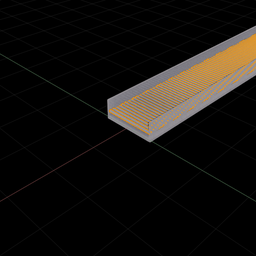
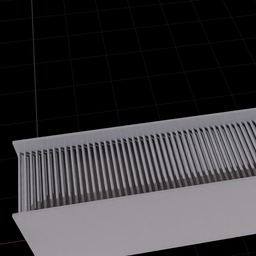
did not use BaseBox anymore

diff --git a/App/CreateFCEnv_v3.py b/App/CreateFCEnv_v3.py
@@ -72,7 +72,7 @@ FC_CFG = ArticulationCfg(
         usd_path="C:/Users/bactran/Documents/IsaacLab/IsaacLab/source/isaaclab_tasks/isaaclab_tasks/manager_based/classic/FCRobot/Custom40ftStraight_v3.usd",
         rigid_props=sim_utils.RigidBodyPropertiesCfg(
             rigid_body_enabled=True,
-            max_linear_velocity=1000.0,
+            max_linear_velocity=0.0,
             max_angular_velocity=1326.0,
             max_depenetration_velocity=100.0,
             enable_gyroscopic_forces=False,
@@ -86,70 +86,70 @@ FC_CFG = ArticulationCfg(
         ),
     ),
     init_state=ArticulationCfg.InitialStateCfg(
-        pos=(0.0, 0.0, 0.0),
+        pos=(0.0, 0.0, 0),
         joint_pos={"Roller_1_.*": 0.0, "Roller_17_.*": 0.0, "Roller_33_.*": 0.0, "Roller_49_.*": 0.0, 
                    "Roller_65_.*": 0.0, "Roller_81_.*": 0.0, "Roller_97_.*": 0.0, "Roller_113_.*": 0.0}
     ),
     actuators={
         "joint_1_actuator": ImplicitActuatorCfg(
-            joint_names_expr=["Roller_1_1_joint"],
-            effort_limit=70000.0,
+            joint_names_expr=["Roller_1_.*"],
+            effort_limit=7000000.0,
             velocity_limit=1326.0,
             velocity_limit_sim=1326.0,
             stiffness=0.0,
             damping=5.0
         ),
         "joint_17_actuator": ImplicitActuatorCfg(
-            joint_names_expr=["Roller_17_17_joint"],
-            effort_limit=70000.0,
+            joint_names_expr=["Roller_17_.*"],
+            effort_limit=7000000.0,
             velocity_limit=1326.0,
             velocity_limit_sim=1326.0,
             stiffness=0.0,
             damping=5.0
         ),
         "joint_33_actuator": ImplicitActuatorCfg(
-            joint_names_expr=["Roller_33_33_joint"],
-            effort_limit=70000.0,
+            joint_names_expr=["Roller_33_.*"],
+            effort_limit=7000000.0,
             velocity_limit=1326.0,
             velocity_limit_sim=1326.0,
             stiffness=0.0,
             damping=5.0
         ),
         "joint_49_actuator": ImplicitActuatorCfg(
-            joint_names_expr=["Roller_49_49_joint"],
-            effort_limit=70000.0,
+            joint_names_expr=["Roller_49_.*"],
+            effort_limit=7000000.0,
             velocity_limit=1326.0,
             velocity_limit_sim=1326.0,
             stiffness=0.0,
             damping=5.0
         ),
         "joint_65_actuator": ImplicitActuatorCfg(
-            joint_names_expr=["Roller_65_65_joint"],
-            effort_limit=70000.0,
+            joint_names_expr=["Roller_65_.*"],
+            effort_limit=7000000.0,
             velocity_limit=1326.0,
             velocity_limit_sim=1326.0,
             stiffness=0.0,
             damping=5.0
         ),
         "joint_81_actuator": ImplicitActuatorCfg(
-            joint_names_expr=["Roller_81_81_joint"],
-            effort_limit=70000.0,
+            joint_names_expr=["Roller_81_.*"],
+            effort_limit=7000000.0,
             velocity_limit=1326.0,
             velocity_limit_sim=1326.0,
             stiffness=0.0,
             damping=5.0
         ),
         "joint_97_actuator": ImplicitActuatorCfg(
-            joint_names_expr=["Roller_97_97_joint"],
-            effort_limit=70000.0,
+            joint_names_expr=["Roller_97_.*"],
+            effort_limit=7000000.0,
             velocity_limit=1326.0,
             velocity_limit_sim=1326.0,
             stiffness=0.0,
             damping=5.0
         ),
         "joint_113_actuator": ImplicitActuatorCfg(
-            joint_names_expr=["Roller_113_113_joint"],
-            effort_limit=70000.0,
+            joint_names_expr=["Roller_113_.*"],
+            effort_limit=7000000.0,
             velocity_limit=1326.0,
             velocity_limit_sim=1326.0,
             stiffness=0.0,
@@ -224,7 +224,7 @@ class FlowControlSceneCfg(InteractiveSceneCfg):
             mass_props=sim_utils.MassPropertiesCfg(mass=2.0),
             collision_props=sim_utils.CollisionPropertiesCfg(),
         ),
-        init_state=RigidObjectCfg.InitialStateCfg(pos=(-0.5, 0.0, 2.0),ang_vel=(uniform(10,15), uniform(10,15), uniform(10,15)))
+        init_state=RigidObjectCfg.InitialStateCfg(pos=(-0.5, 0.0, 3.0),ang_vel=(uniform(10,15), uniform(10,15), uniform(10,15)))
     )
     
     BoxS2: RigidObjectCfg = RigidObjectCfg(
@@ -254,7 +254,7 @@ class FlowControlSceneCfg(InteractiveSceneCfg):
             mass_props=sim_utils.MassPropertiesCfg(mass=2.0),
             collision_props=sim_utils.CollisionPropertiesCfg(),
         ),
-        init_state=RigidObjectCfg.InitialStateCfg(pos=(uniform(-5, -0.5), uniform(-0.5,0.5), 2.0),ang_vel=(uniform(10,15), uniform(10,15), uniform(10,15)))
+        init_state=RigidObjectCfg.InitialStateCfg(pos=(uniform(-5, -0.5), uniform(-0.5,0.5), 3.0),ang_vel=(uniform(10,15), uniform(10,15), uniform(10,15)))
     )
     
     BoxS3: RigidObjectCfg = RigidObjectCfg(
@@ -284,7 +284,7 @@ class FlowControlSceneCfg(InteractiveSceneCfg):
             mass_props=sim_utils.MassPropertiesCfg(mass=2.0),
             collision_props=sim_utils.CollisionPropertiesCfg(),
         ),
-        init_state=RigidObjectCfg.InitialStateCfg(pos=(uniform(-5, -0.5), uniform(-0.5,0.5), 2.0),ang_vel=(uniform(10,15), uniform(10,15), uniform(10,15)))
+        init_state=RigidObjectCfg.InitialStateCfg(pos=(uniform(-5, -0.5), uniform(-0.5,0.5), 3.0),ang_vel=(uniform(10,15), uniform(10,15), uniform(10,15)))
     )
     
     BoxS4: RigidObjectCfg = RigidObjectCfg(
@@ -314,7 +314,7 @@ class FlowControlSceneCfg(InteractiveSceneCfg):
             mass_props=sim_utils.MassPropertiesCfg(mass=2.0),
             collision_props=sim_utils.CollisionPropertiesCfg(),
         ),
-        init_state=RigidObjectCfg.InitialStateCfg(pos=(uniform(-5, -0.5), uniform(-0.5,0.5), 2.0),ang_vel=(uniform(10,15), uniform(10,15), uniform(10,15)))
+        init_state=RigidObjectCfg.InitialStateCfg(pos=(uniform(-5, -0.5), uniform(-0.5,0.5), 3.0),ang_vel=(uniform(10,15), uniform(10,15), uniform(10,15)))
     )
     
     BoxS5: RigidObjectCfg = RigidObjectCfg(
@@ -344,7 +344,7 @@ class FlowControlSceneCfg(InteractiveSceneCfg):
             mass_props=sim_utils.MassPropertiesCfg(mass=2.0),
             collision_props=sim_utils.CollisionPropertiesCfg(),
         ),
-        init_state=RigidObjectCfg.InitialStateCfg(pos=(uniform(-6, -5), uniform(-0.5,0.5), 2.0),ang_vel=(uniform(10,15), uniform(10,15), uniform(10,15)))
+        init_state=RigidObjectCfg.InitialStateCfg(pos=(uniform(-6, -5), uniform(-0.5,0.5), 3.0),ang_vel=(uniform(10,15), uniform(10,15), uniform(10,15)))
     )
     
     BoxS6: RigidObjectCfg = RigidObjectCfg(
@@ -374,7 +374,7 @@ class FlowControlSceneCfg(InteractiveSceneCfg):
             mass_props=sim_utils.MassPropertiesCfg(mass=2.0),
             collision_props=sim_utils.CollisionPropertiesCfg(),
         ),
-        init_state=RigidObjectCfg.InitialStateCfg(pos=(uniform(-6, -5), uniform(-0.5,0.5), 2.0),ang_vel=(uniform(10,15), uniform(10,15), uniform(10,15)))
+        init_state=RigidObjectCfg.InitialStateCfg(pos=(uniform(-6, -5), uniform(-0.5,0.5), 3.0),ang_vel=(uniform(10,15), uniform(10,15), uniform(10,15)))
     )
     
     BoxS7: RigidObjectCfg = RigidObjectCfg(
@@ -404,7 +404,7 @@ class FlowControlSceneCfg(InteractiveSceneCfg):
             mass_props=sim_utils.MassPropertiesCfg(mass=2.0),
             collision_props=sim_utils.CollisionPropertiesCfg(),
         ),
-        init_state=RigidObjectCfg.InitialStateCfg(pos=(uniform(-6, -5), uniform(-0.5,0.5), 2.0),ang_vel=(uniform(10,15), uniform(10,15), uniform(10,15)))
+        init_state=RigidObjectCfg.InitialStateCfg(pos=(uniform(-6, -5), uniform(-0.5,0.5), 3.0),ang_vel=(uniform(10,15), uniform(10,15), uniform(10,15)))
     )
     
         
@@ -414,7 +414,7 @@ class FlowControlSceneCfg(InteractiveSceneCfg):
     # Cameras
     tiled_camera1: CameraCfg = TiledCameraCfg(
         prim_path="{ENV_REGEX_NS}/Camera1",
-        offset=TiledCameraCfg.OffsetCfg(pos=(-0.76, 0.0, 3.4), rot=(0.0, 0.0, 0.0, 0.0), convention="opengl"),
+        offset=TiledCameraCfg.OffsetCfg(pos=(-0.76, 0.0, 10), rot=(0.0, 0.0, 0.0, 0.0), convention="opengl"),
         data_types=["distance_to_image_plane"],
         update_period=0.05,
         spawn=sim_utils.PinholeCameraCfg(
@@ -426,7 +426,7 @@ class FlowControlSceneCfg(InteractiveSceneCfg):
     
     tiled_camera2: TiledCameraCfg = TiledCameraCfg(
         prim_path="{ENV_REGEX_NS}/Camera2",
-        offset=TiledCameraCfg.OffsetCfg(pos=(-0.76-1.52*1, 0.0, 3.4), rot=(0.0, 0.0, 0.0, 0.0), convention="opengl"),
+        offset=TiledCameraCfg.OffsetCfg(pos=(-0.76-1.52*1, 0.0, 10), rot=(0.0, 0.0, 0.0, 0.0), convention="opengl"),
         data_types=["distance_to_image_plane"],
         update_period=0.05,
         spawn=sim_utils.PinholeCameraCfg(
@@ -437,7 +437,7 @@ class FlowControlSceneCfg(InteractiveSceneCfg):
     )
     tiled_camera3: TiledCameraCfg = TiledCameraCfg(
         prim_path="{ENV_REGEX_NS}/Camera3",
-        offset=TiledCameraCfg.OffsetCfg(pos=(-0.76-1.52*2, 0.0, 3.4), rot=(0.0, 0.0, 0.0, 0.0), convention="opengl"),
+        offset=TiledCameraCfg.OffsetCfg(pos=(-0.76-1.52*2, 0.0, 10), rot=(0.0, 0.0, 0.0, 0.0), convention="opengl"),
         data_types=["distance_to_image_plane"],
         update_period=0.05,
         spawn=sim_utils.PinholeCameraCfg(
@@ -448,7 +448,7 @@ class FlowControlSceneCfg(InteractiveSceneCfg):
     )
     tiled_camera4: TiledCameraCfg = TiledCameraCfg(
         prim_path="{ENV_REGEX_NS}/Camera4",
-        offset=TiledCameraCfg.OffsetCfg(pos=(-0.76-1.52*3, 0.0, 3.4), rot=(0.0, 0.0, 0.0, 0.0), convention="opengl"),
+        offset=TiledCameraCfg.OffsetCfg(pos=(-0.76-1.52*3, 0.0, 10), rot=(0.0, 0.0, 0.0, 0.0), convention="opengl"),
         data_types=["distance_to_image_plane"],
         update_period=0.05,
         spawn=sim_utils.PinholeCameraCfg(
@@ -459,7 +459,7 @@ class FlowControlSceneCfg(InteractiveSceneCfg):
     )
     tiled_camera5: TiledCameraCfg = TiledCameraCfg(
         prim_path="{ENV_REGEX_NS}/Camera5",
-        offset=TiledCameraCfg.OffsetCfg(pos=(-0.76-1.52*4, 0.0, 3.4), rot=(0.0, 0.0, 0.0, 0.0), convention="opengl"),
+        offset=TiledCameraCfg.OffsetCfg(pos=(-0.76-1.52*4, 0.0, 10), rot=(0.0, 0.0, 0.0, 0.0), convention="opengl"),
         data_types=["distance_to_image_plane"],
         update_period=0.05,
         spawn=sim_utils.PinholeCameraCfg(
@@ -470,7 +470,7 @@ class FlowControlSceneCfg(InteractiveSceneCfg):
     )
     tiled_camera6: TiledCameraCfg = TiledCameraCfg(
         prim_path="{ENV_REGEX_NS}/Camera6",
-        offset=TiledCameraCfg.OffsetCfg(pos=(-0.76-1.52*5, 0.0, 3.4), rot=(0.0, 0.0, 0.0, 0.0), convention="opengl"),
+        offset=TiledCameraCfg.OffsetCfg(pos=(-0.76-1.52*5, 0.0, 10), rot=(0.0, 0.0, 0.0, 0.0), convention="opengl"),
         data_types=["distance_to_image_plane"],
         update_period=0.05,
         spawn=sim_utils.PinholeCameraCfg(
@@ -481,7 +481,7 @@ class FlowControlSceneCfg(InteractiveSceneCfg):
     )
     tiled_camera7: TiledCameraCfg = TiledCameraCfg(
         prim_path="{ENV_REGEX_NS}/Camera7",
-        offset=TiledCameraCfg.OffsetCfg(pos=(-0.76-1.52*6, 0.0, 3.4), rot=(0.0, 0.0, 0.0, 0.0), convention="opengl"),
+        offset=TiledCameraCfg.OffsetCfg(pos=(-0.76-1.52*6, 0.0, 10), rot=(0.0, 0.0, 0.0, 0.0), convention="opengl"),
         data_types=["distance_to_image_plane"],
         update_period=0.05,
         spawn=sim_utils.PinholeCameraCfg(
@@ -492,7 +492,7 @@ class FlowControlSceneCfg(InteractiveSceneCfg):
     )
     tiled_camera8: TiledCameraCfg = TiledCameraCfg(
         prim_path="{ENV_REGEX_NS}/Camera8",
-        offset=TiledCameraCfg.OffsetCfg(pos=(-0.76-1.52*7, 0.0, 3.4), rot=(0.0, 0.0, 0.0, 0.0), convention="opengl"),
+        offset=TiledCameraCfg.OffsetCfg(pos=(-0.76-1.52*7, 0.0, 10), rot=(0.0, 0.0, 0.0, 0.0), convention="opengl"),
         data_types=["distance_to_image_plane"],
         update_period=0.05,
         spawn=sim_utils.PinholeCameraCfg(
@@ -520,17 +520,14 @@ class FlowControlSceneCfg(InteractiveSceneCfg):
 class ActionsCfg:
     """Action specifications for the environment."""
 
-    #joint_velocities1 = mdp.JointVelocityActionCfg(asset_name="robot", joint_names=["Roller_1_.*", "Roller_17_.*", "Roller_33_.*", "Roller_49_.*", 
-    #                                                                              "Roller_65_.*", "Roller_81_.*", "Roller_97_.*", "Roller_113_.*"], scale=1.0)
-    
-    joint_velocities1 = mdp.JointVelocityActionCfg(asset_name="robot", joint_names=["Roller_1_1_joint"], scale=1.0)
-    joint_velocities2 = mdp.JointVelocityActionCfg(asset_name="robot", joint_names=["Roller_33_33_joint"], scale=1.0)
-    joint_velocities3 = mdp.JointVelocityActionCfg(asset_name="robot", joint_names=["Roller_65_65_joint"], scale=1.0)
-    joint_velocities4 = mdp.JointVelocityActionCfg(asset_name="robot", joint_names=["Roller_97_97_joint"], scale=1.0)
-    joint_velocities5 = mdp.JointVelocityActionCfg(asset_name="robot", joint_names=["Roller_17_17_joint"], scale=1.0)
-    joint_velocities6 = mdp.JointVelocityActionCfg(asset_name="robot", joint_names=["Roller_49_49_joint"], scale=1.0)
-    joint_velocities7 = mdp.JointVelocityActionCfg(asset_name="robot", joint_names=["Roller_81_81_joint"], scale=1.0)
-    joint_velocities8 = mdp.JointVelocityActionCfg(asset_name="robot", joint_names=["Roller_113_113_joint"], scale=1.0)
+    joint_velocities1 = mdp.JointVelocityActionCfg(asset_name="robot", joint_names=["Roller_1_.*"], scale=1.0)
+    joint_velocities2 = mdp.JointVelocityActionCfg(asset_name="robot", joint_names=["Roller_33_.*"], scale=1.0)
+    joint_velocities3 = mdp.JointVelocityActionCfg(asset_name="robot", joint_names=["Roller_65_.*"], scale=1.0)
+    joint_velocities4 = mdp.JointVelocityActionCfg(asset_name="robot", joint_names=["Roller_97_.*"], scale=1.0)
+    joint_velocities5 = mdp.JointVelocityActionCfg(asset_name="robot", joint_names=["Roller_17_.*"], scale=1.0)
+    joint_velocities6 = mdp.JointVelocityActionCfg(asset_name="robot", joint_names=["Roller_49_.*"], scale=1.0)
+    joint_velocities7 = mdp.JointVelocityActionCfg(asset_name="robot", joint_names=["Roller_81_.*"], scale=1.0)
+    joint_velocities8 = mdp.JointVelocityActionCfg(asset_name="robot", joint_names=["Roller_113_.*"], scale=1.0)
     
 @configclass
 class ObservationsCfg:
@@ -833,10 +830,10 @@ def main():
             #env.scene.rigid_objects['BoxS1'].write_data_to_sim()
             # sample random actions
             #joint_vel = torch.randn_like(env.action_manager.action)
-            joint_vel =  torch.cat((torch.multiply(torch.ones(args_cli.num_envs, 1), 0.5), torch.multiply(torch.ones(args_cli.num_envs, 1), 1.5),
-                                   torch.multiply(torch.ones(args_cli.num_envs, 1), 1.0), torch.multiply(torch.ones(args_cli.num_envs, 1),1.0),
-                                   torch.multiply(torch.ones(args_cli.num_envs, 1), 1.0), torch.multiply(torch.ones(args_cli.num_envs, 1), 1.0),
-                                   torch.multiply(torch.ones(args_cli.num_envs, 1), 1.0), torch.multiply(torch.ones(args_cli.num_envs, 1), 1.7)),1) 
+            joint_vel =  torch.cat((torch.multiply(torch.ones(args_cli.num_envs, 16), 0.5), torch.multiply(torch.ones(args_cli.num_envs, 16), 1.5),
+                                   torch.multiply(torch.ones(args_cli.num_envs, 16), 1.0), torch.multiply(torch.ones(args_cli.num_envs, 16),1.0),
+                                   torch.multiply(torch.ones(args_cli.num_envs, 16), 1.0), torch.multiply(torch.ones(args_cli.num_envs, 16), 1.0),
+                                   torch.multiply(torch.ones(args_cli.num_envs, 16), 1.0), torch.multiply(torch.ones(args_cli.num_envs, 16), 1.7)),1) 
             # step the environment
             env.render()
             obs, rew, terminated, truncated, info = env.step(joint_vel)

diff --git a/App/CreateFCEnv_v2.py b/App/CreateFCEnv_v2.py
@@ -72,10 +72,13 @@ FC_CFG = ArticulationCfg(
         usd_path="C:/Users/bactran/Documents/IsaacLab/IsaacLab/source/isaaclab_tasks/isaaclab_tasks/manager_based/classic/FCRobot/Custom40ftStraight_v2.usd",
         rigid_props=sim_utils.RigidBodyPropertiesCfg(
             rigid_body_enabled=True,
-            max_linear_velocity=1000.0,
+            max_linear_velocity=0.0,
             max_angular_velocity=1326.0,
-            max_depenetration_velocity=100.0,
+            #max_depenetration_velocity=1.0,
             enable_gyroscopic_forces=False,
+        ),
+        mass_props=sim_utils.MassPropertiesCfg(
+            mass=1  
         ),
         articulation_props=sim_utils.ArticulationRootPropertiesCfg(
             enabled_self_collisions=False,
@@ -86,7 +89,7 @@ FC_CFG = ArticulationCfg(
         ),
     ),
     init_state=ArticulationCfg.InitialStateCfg(
-        pos=(0.0, 0.0, 1.501),
+        pos=(0.0, 0.0, 1.6),
         joint_pos={"Roller_1_.*": 0.0, "Roller_17_.*": 0.0, "Roller_33_.*": 0.0, "Roller_49_.*": 0.0, 
                    "Roller_65_.*": 0.0, "Roller_81_.*": 0.0, "Roller_97_.*": 0.0, "Roller_113_.*": 0.0}
     ),
@@ -184,7 +187,7 @@ class FlowControlSceneCfg(InteractiveSceneCfg):
                 sim_utils.CuboidCfg(
                     size=(-12.192, 2.0, 1.5),
                     visual_material=sim_utils.PreviewSurfaceCfg(diffuse_color=(0.1, 0.1, 0.1), metallic=0.2),
-                    physics_material=sim_utils.RigidBodyMaterialCfg(restitution=GVL_restitution)
+                    physics_material=sim_utils.RigidBodyMaterialCfg(restitution=0.0)
                 )
             ],
             random_choice=True,
@@ -192,7 +195,7 @@ class FlowControlSceneCfg(InteractiveSceneCfg):
                 solver_position_iteration_count=4, solver_velocity_iteration_count=0
             ),
             mass_props=sim_utils.MassPropertiesCfg(mass=20000.0),
-            #collision_props=sim_utils.CollisionPropertiesCfg(),
+            collision_props=sim_utils.CollisionPropertiesCfg(),
         ),
         init_state=RigidObjectCfg.InitialStateCfg(pos=(-6.096, 0.0, 0.75))
     )
